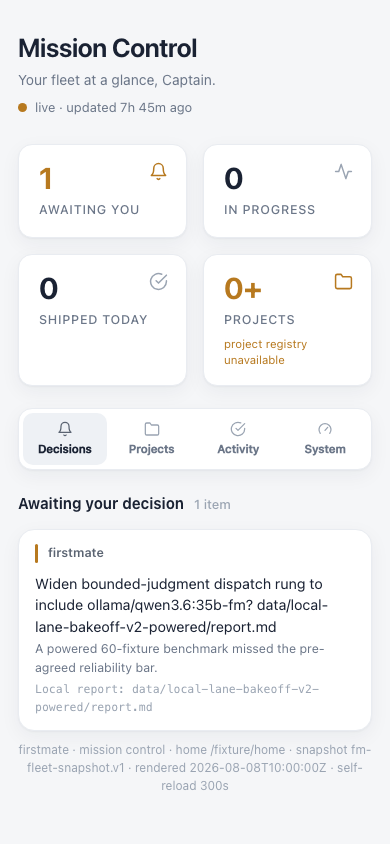
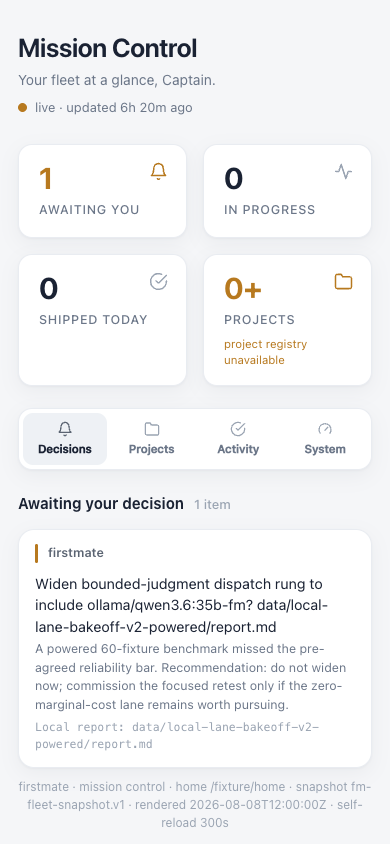
fix(mission-control): close validation findings

Changed region(s): [[0.0615, 0.7701, 0.9538, 0.9858], [0.3077, 0.1232, 0.4923, 0.154]]

diff --git a/docs/mission-control.md b/docs/mission-control.md
@@ -33,6 +33,7 @@ The stage itself is derived by the snapshot rather than by the board; see `bin/f
   Each row names the home it came from when that home is not the main one.
   A structured HTTPS decision aid appears as its own readable link and remains on its recorded private host.
   Only valid HTTP or HTTPS references are clickable; a local report path such as `data/example/report.md` remains non-clickable context when no explicit served HTTPS aid exists, because the board does not serve fleet-local files.
+  URL validation runs in the required jq rendering path, so valid links do not disappear when optional browser tooling such as Node is unavailable.
   The board never probes, publishes, mounts, or rewrites that destination.
   Bounded or unavailable secondmate registries, omitted homes, and registered homes whose decisions could not be read all mark the waiting status incomplete.
   Credential and login needs are not detected and are not faked.
@@ -117,7 +118,8 @@ With `--controls`, that reload also holds while a control is open or contains un
 The no-script fallback remains read-only and refreshes through its meta tag.
 
 After the Lavish bridge accepts a request, the affected control says exactly what was sent, such as `Answer sent` or `Merge request sent`, and refuses an accidental duplicate while that same action remains on the board.
-A bridge failure leaves the form open, keeps its text, and remains retryable.
+A failure before queuing leaves the form open, keeps its text editable, and remains retryable.
+When queuing succeeds but delivery fails, the board binds the retry to that exact saved answer and temporarily locks editing and cancellation, so it can neither enqueue a duplicate nor acknowledge newer text while sending the older payload.
 Every open composer and its draft are saved eagerly in session storage under the exact board, owning home, item, decision key, and intent identity.
 A full document reload restores only controls whose exact identity still exists, so an external generator rewrite cannot erase an in-progress answer and cannot attach it to a neighbouring decision.
 Submitted presentation state is browser-local, scoped by board home, document, owning home, item, decision key, and intent.
